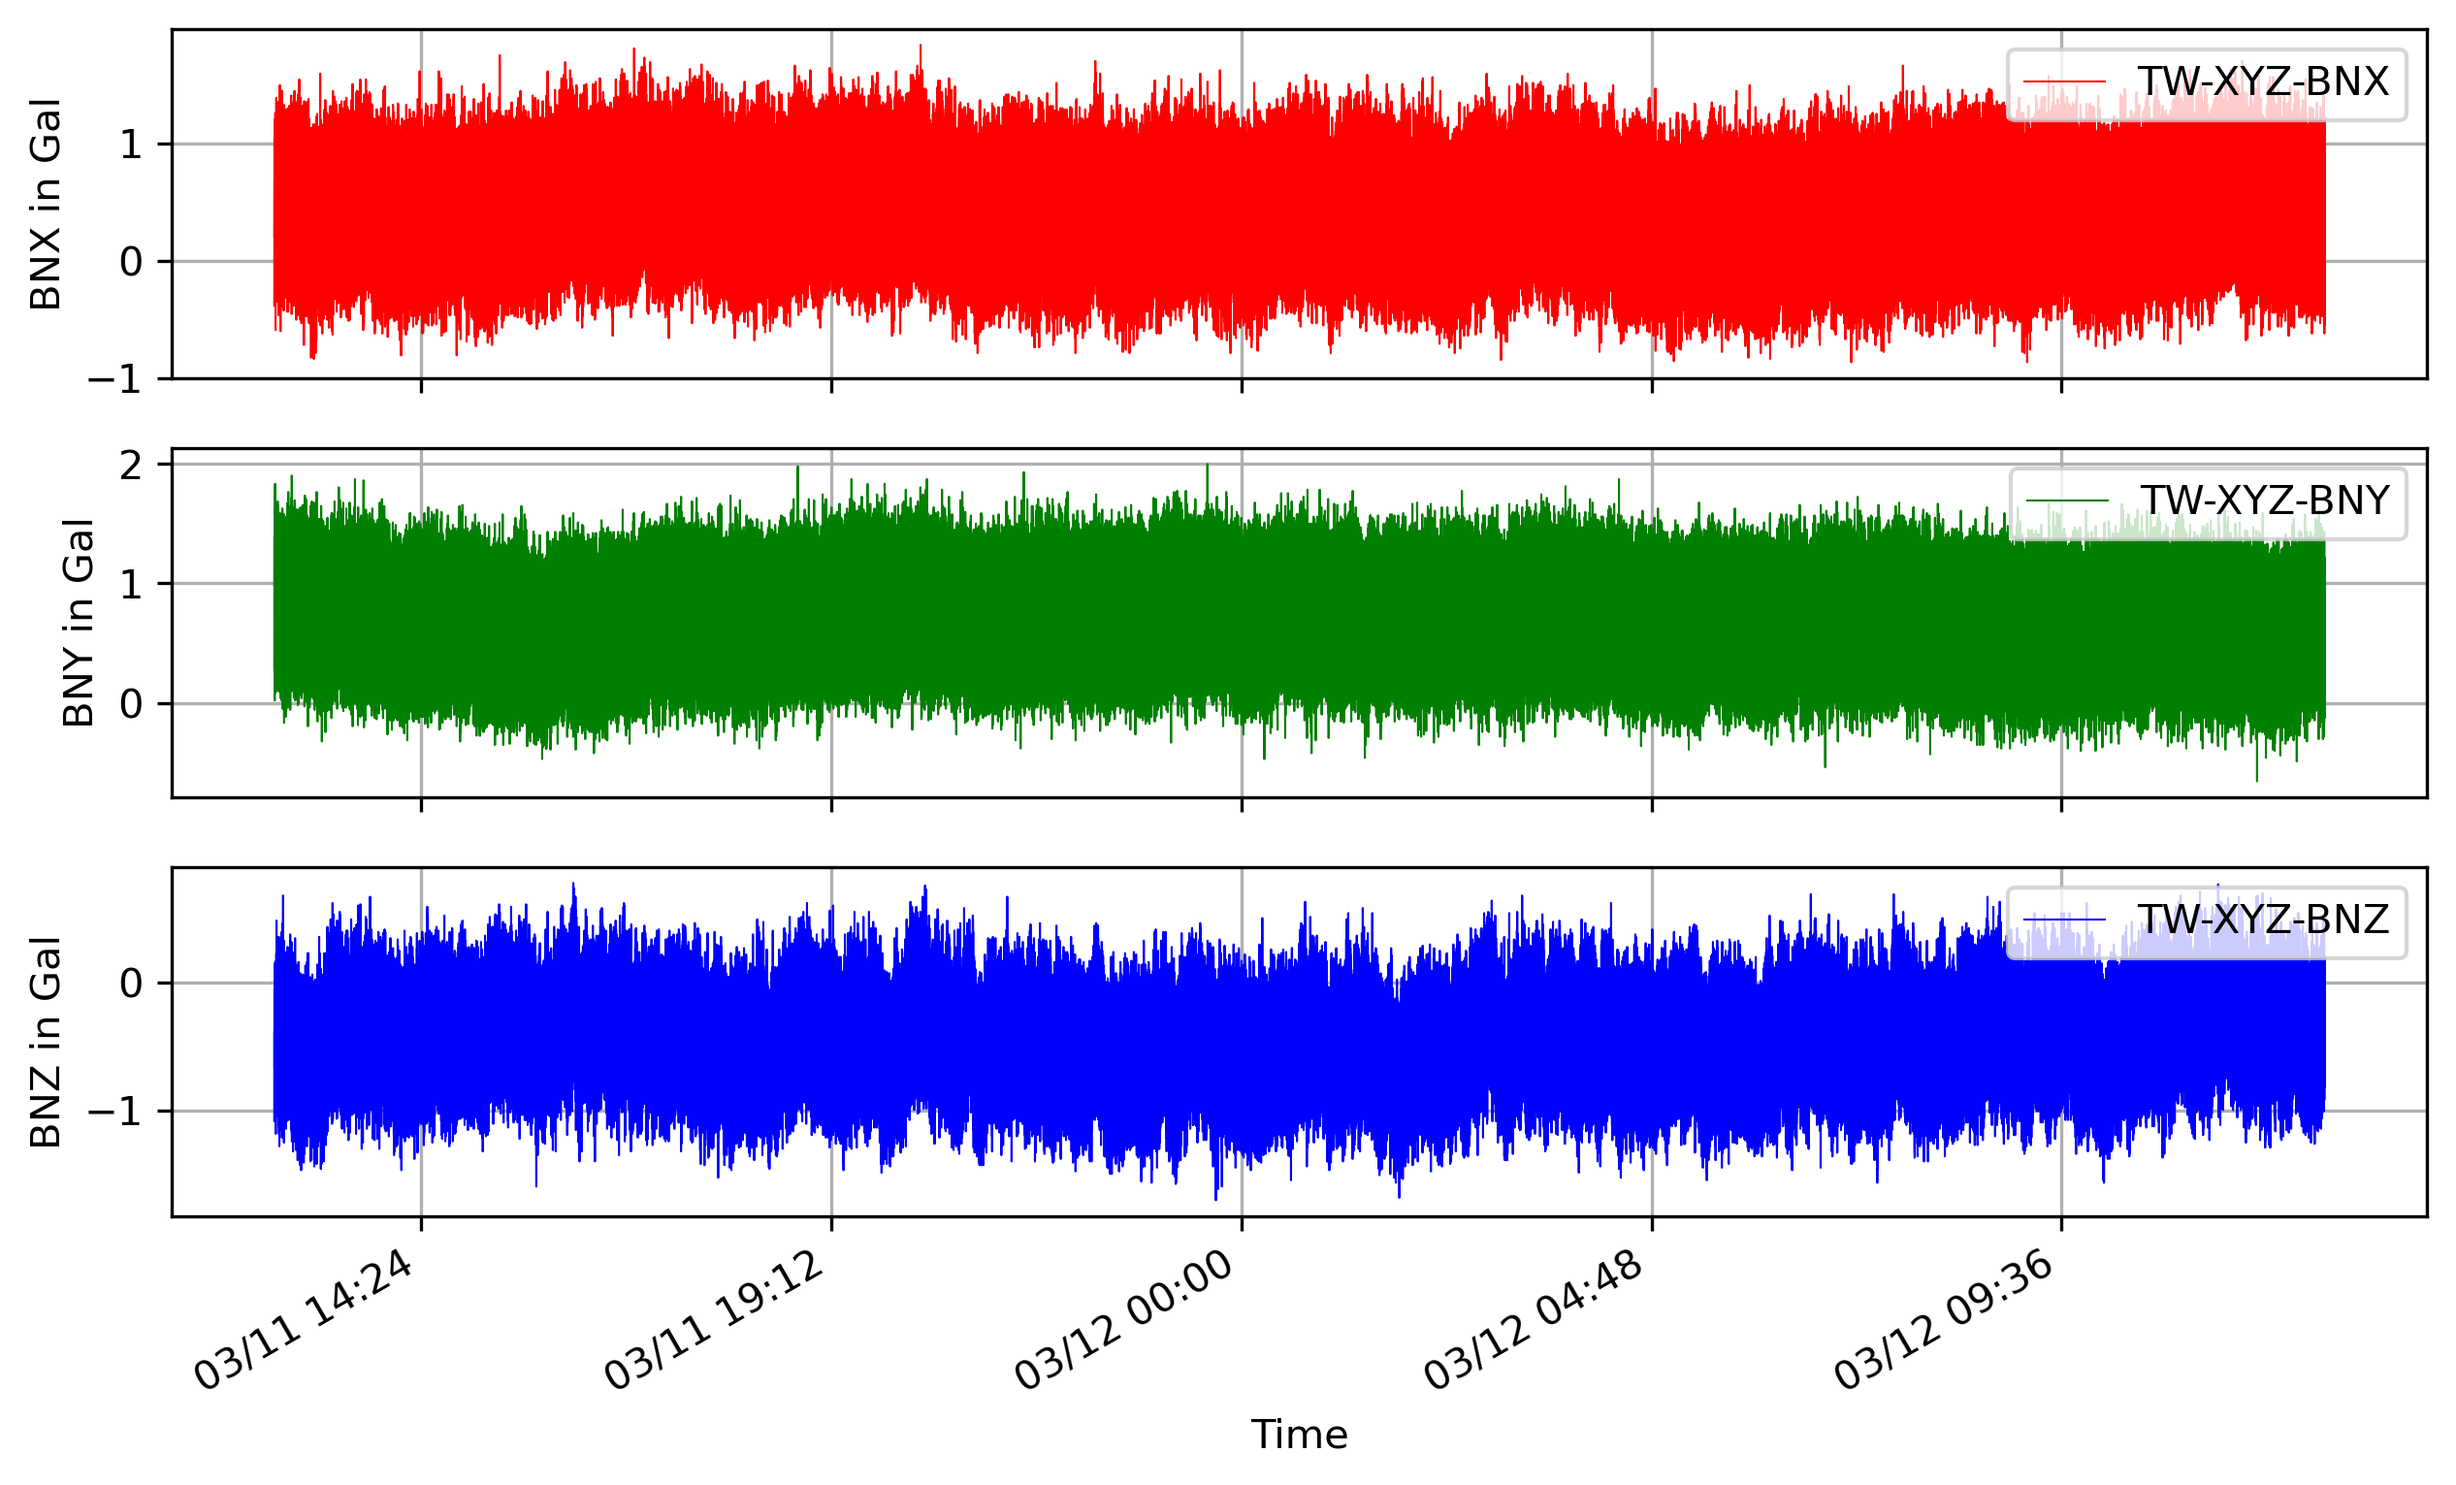
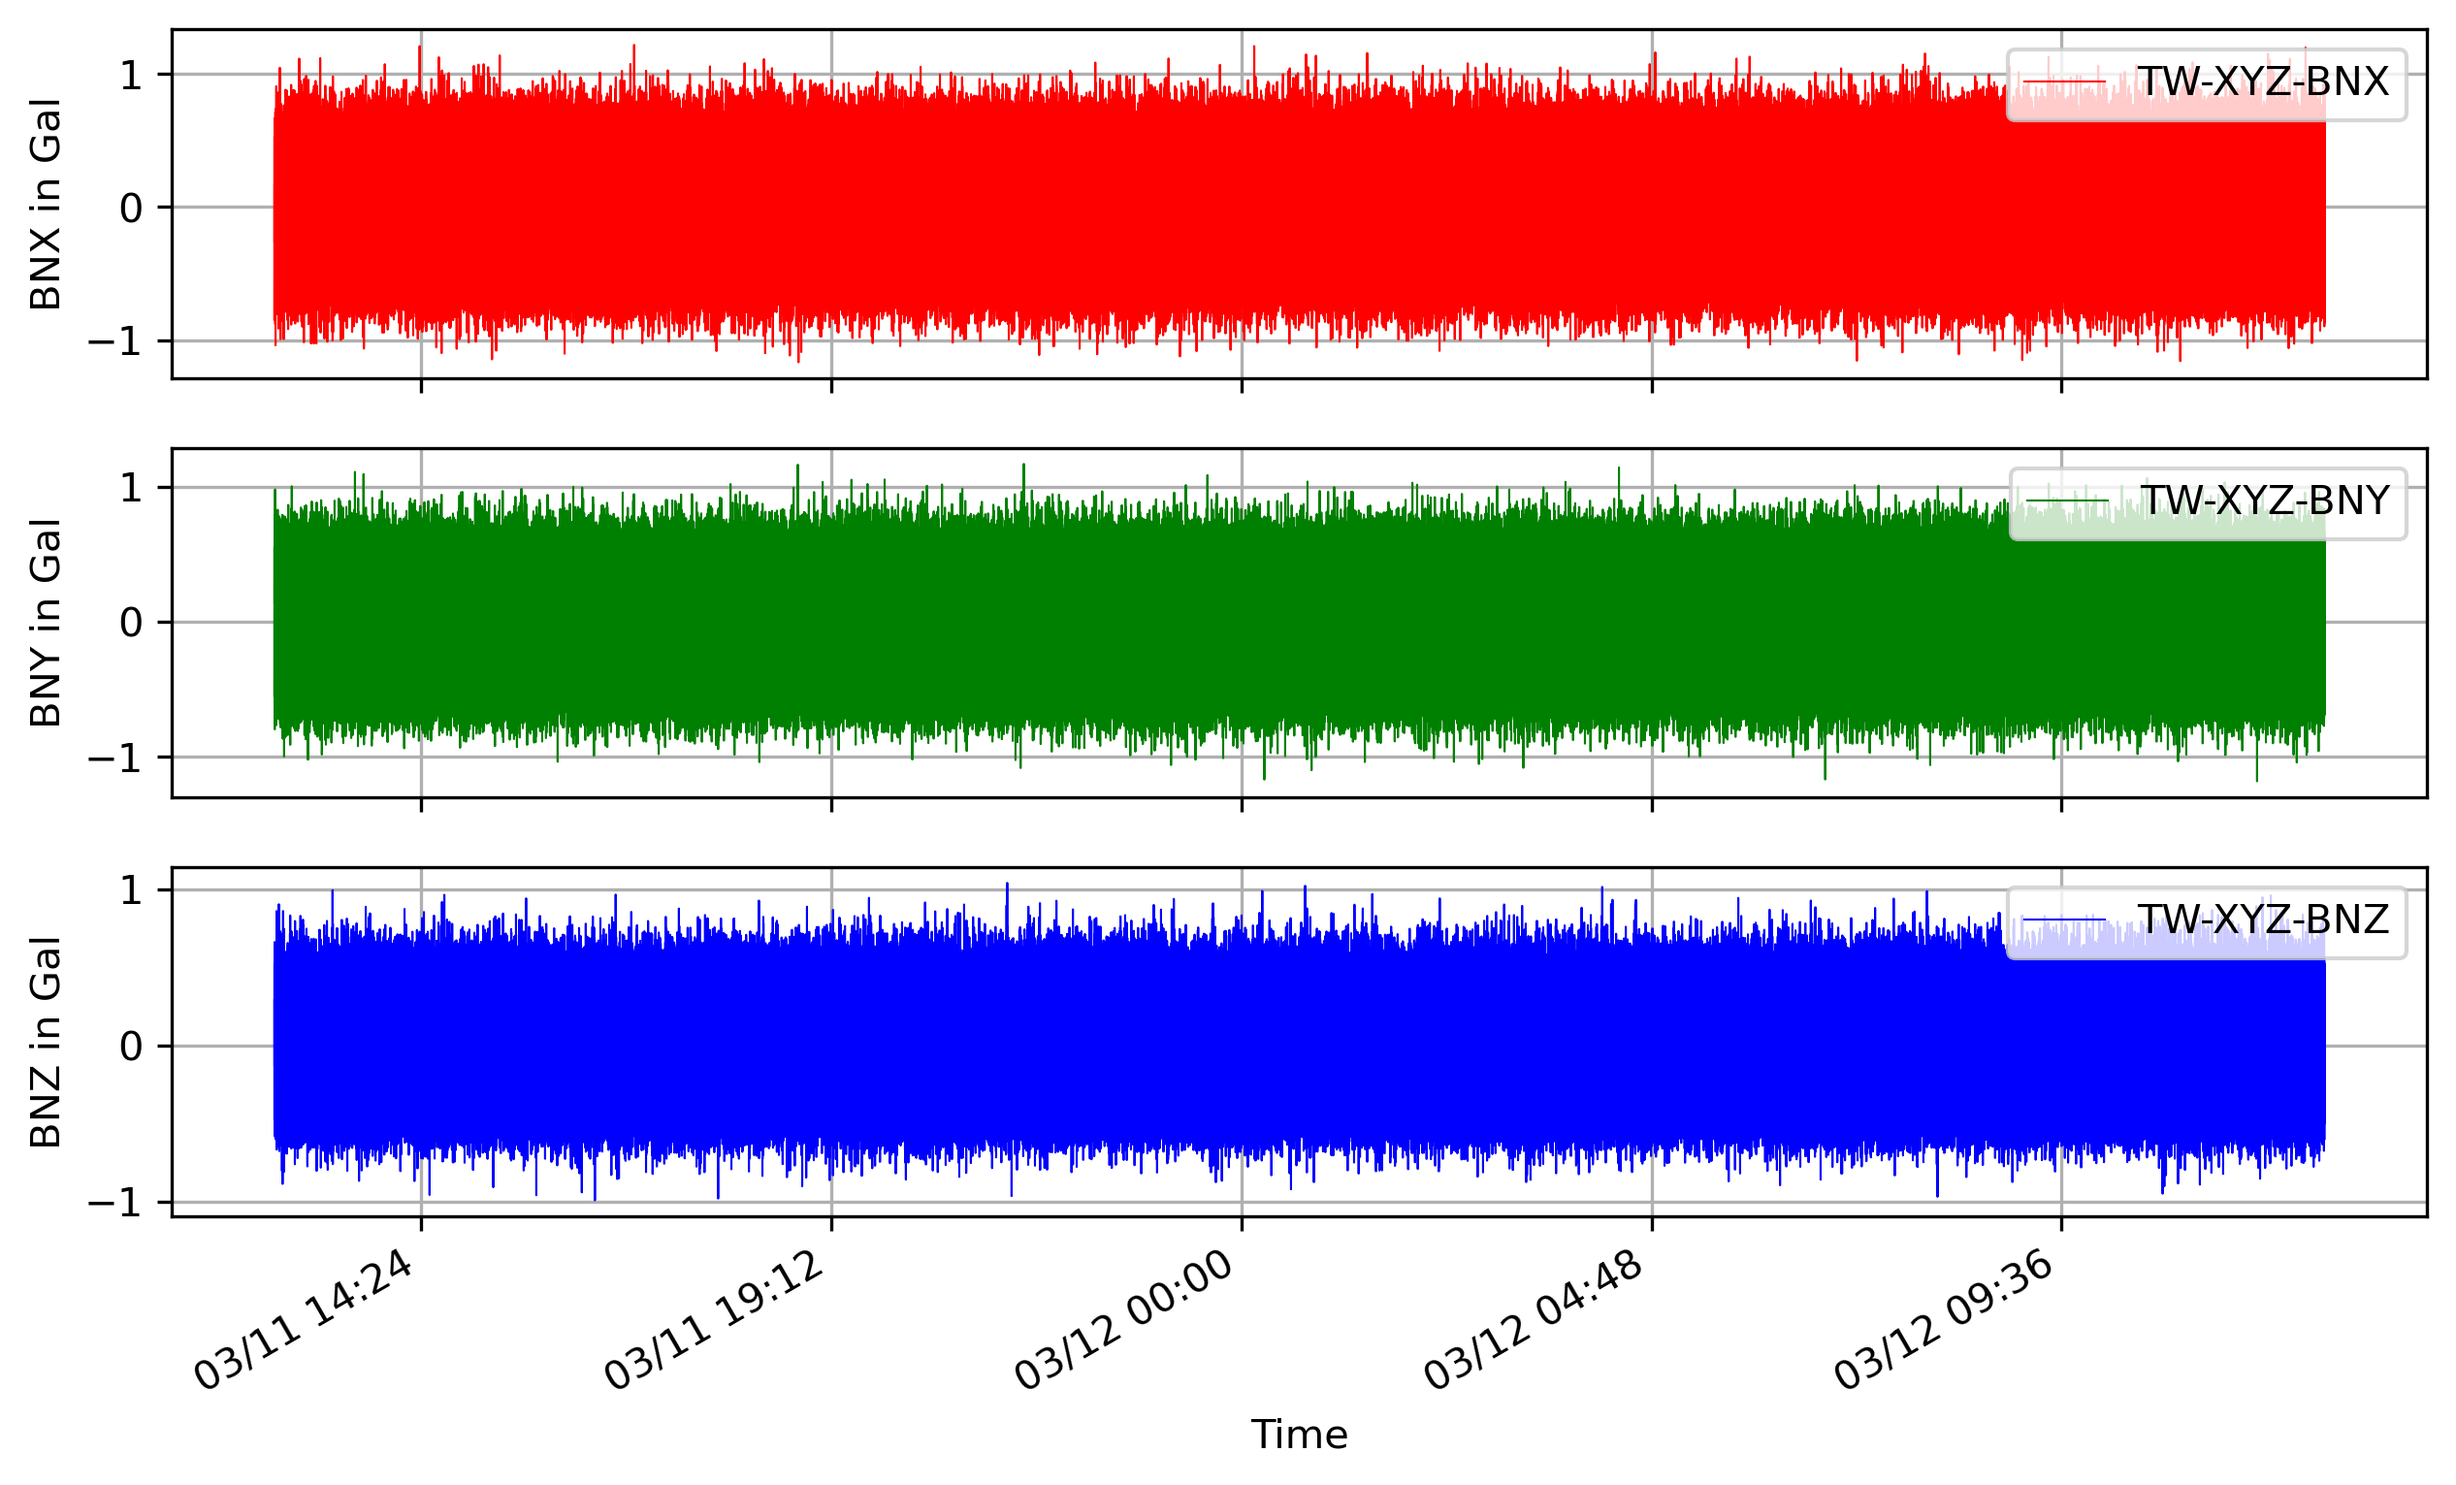
bug fixes

diff --git a/csv2mseed.py b/csv2mseed.py
@@ -27,7 +27,7 @@ days_to_seconds = 60 * 60 * 24
 channels = ['BNX', 'BNY', 'BNZ']
 
 chunksize = 10 ** 6
-def _read_csv_as_np_array(csvfile, interval=20, demean=False):
+def _read_csv_as_np_array(csvfile, interval=20):
 
     x_array = np.array([],dtype=np.float64)
     y_array = np.array([],dtype=np.float64)
@@ -48,14 +48,10 @@ def _read_csv_as_np_array(csvfile, interval=20, demean=False):
         z_array = np.append(z_array, df['Z'].values)
         count+=1
 
-    if demean:
-        x_array = x_array - np.mean(x_array)
-        y_array = y_array - np.mean(y_array)
-        z_array = z_array - np.mean(z_array)
 
     return (datetime_array, x_array, y_array, z_array), starttime.to_datetime64()
     
-def _write_mseed(network, station, starttime, datetime_array, z_array, x_array, y_array, sample_rate = 50):
+def _write_mseed(network, station, starttime, datetime_array, z_array, x_array, y_array, sample_rate = 50, demean=False):
     
     starttimestr = np.datetime_as_string(starttime)
     stats = {}
@@ -90,20 +86,21 @@ def _write_mseed(network, station, starttime, datetime_array, z_array, x_array, 
                         
         stream_to_write = Stream(traces=[trace_to_write])
         stream_to_write.interpolate(sampling_rate=sample_rate, starttime=stats['starttime'], npts=npts)
+        if demean:
+            stream_to_write[0].detrend("spline", order=3, dspline=500)
         
         stream_to_write.write(f"{network}-{station}-{channels[ii]}.mseed", format='MSEED', byteorder='>', reclen=4096)
 
 def _plot_mseed(network, station, unit="Gal"):
+    sys.stdout.write(f"Plotting files: {args.network}-{args.station}-BN?.mseed\n")
     fig, ax = plt.subplots(3, 1, figsize=(10, 6), sharex=True)
     network = 'TW'
-    count = 0
     colors= ['r', 'g', 'b']
     for ii in range(3):
         sttmp = read(f"{network}-{station}-{channels[ii]}.mseed")
         sttmp[0].data = sttmp[0].data/10**6
         ax[ii].plot(sttmp[0].times("matplotlib"), sttmp[0].data, color= colors[ii], lw=0.5, label=f"{network}-{station}-{channels[ii]}")
         ax[ii].set_ylabel(channels[ii]+f" in {unit}")
-        count+=1
 
     hfmt = dates.DateFormatter('%m/%d %H:%M')
     for axx in ax:
@@ -125,7 +122,7 @@ def main(args):
             sys.stdout.write(f"Reading file {csvfile} in chunks...\n")
             try:
                 interval =  1/args.sample_rate*1000
-                (datetime_array, x_array, y_array, z_array), starttime =_read_csv_as_np_array(csvfile, interval=interval, demean=args.demean)
+                (datetime_array, x_array, y_array, z_array), starttime =_read_csv_as_np_array(csvfile, interval=interval)
 
                 ## convert to gal or keep in g
                 if args.gal:
@@ -137,7 +134,7 @@ def main(args):
 
                 z_array, x_array, y_array = z_array* GalFactor, x_array* GalFactor, y_array* GalFactor #convert from g to Gal
                         
-                _write_mseed(args.network, args.station, starttime, datetime_array, z_array, x_array, y_array, sample_rate = args.sample_rate)
+                _write_mseed(args.network, args.station, starttime, datetime_array, z_array, x_array, y_array, sample_rate = args.sample_rate, demean=args.demean)
 
                 sys.stdout.write(f"Finished writing file {args.network}-{args.station}-BNX.mseed\n")
                 sys.stdout.write(f"Finished writing file {args.network}-{args.station}-BNY.mseed\n")

diff --git a/README.md b/README.md
@@ -1,6 +1,22 @@
 # Python utility program to write mseed file from csv
 Utpal Kumar, 2021/04
 
+## Installation
+
+### Using Anaconda/Miniconda
+```
+conda create -n rfidgetenv
+conda activate rfidgetenv
+conda install -c conda-forge obspy pandas
+```
+
+### Using venv
+```
+python -m venv venv
+source phidgetplay/bin/activate
+pip install obspy pandas
+```
+
 ## Usage
 type `python csv2mseed.py -h`
 
@@ -27,8 +43,16 @@ csv file format: 'Datetime', 'X', 'Y', 'Z' (2021-04-17 00:00:00.005829,0.00824,-
 ```
 
 - Convert to mseed, remove mean and plot
-```
-python csv2mseed.py -inp "RCEC7B/phidgetData_0009.csv" -p -dm
+```bash
+python csv2mseed.py -inp "RCEC7B/phidgetData_0009.csv" -p -dm -stn RCEC7B
 ```
 
-![RFidget Plot](docs/RFidget-plot-TW-XYZ.png)
+```
+Reading file /mnt/d/csv2mseed_utility/RCEC7B/phidgetData_0009.csv in chunks...
+Finished writing file TW-RCEC7B-BNX.mseed
+Finished writing file TW-RCEC7B-BNY.mseed
+Finished writing file TW-RCEC7B-BNZ.mseed... with sampling rate: 50 Hz
+```
+
+![RFidget Plot](docs/RFidget-plot-TW-RCEC7B.png)
+
